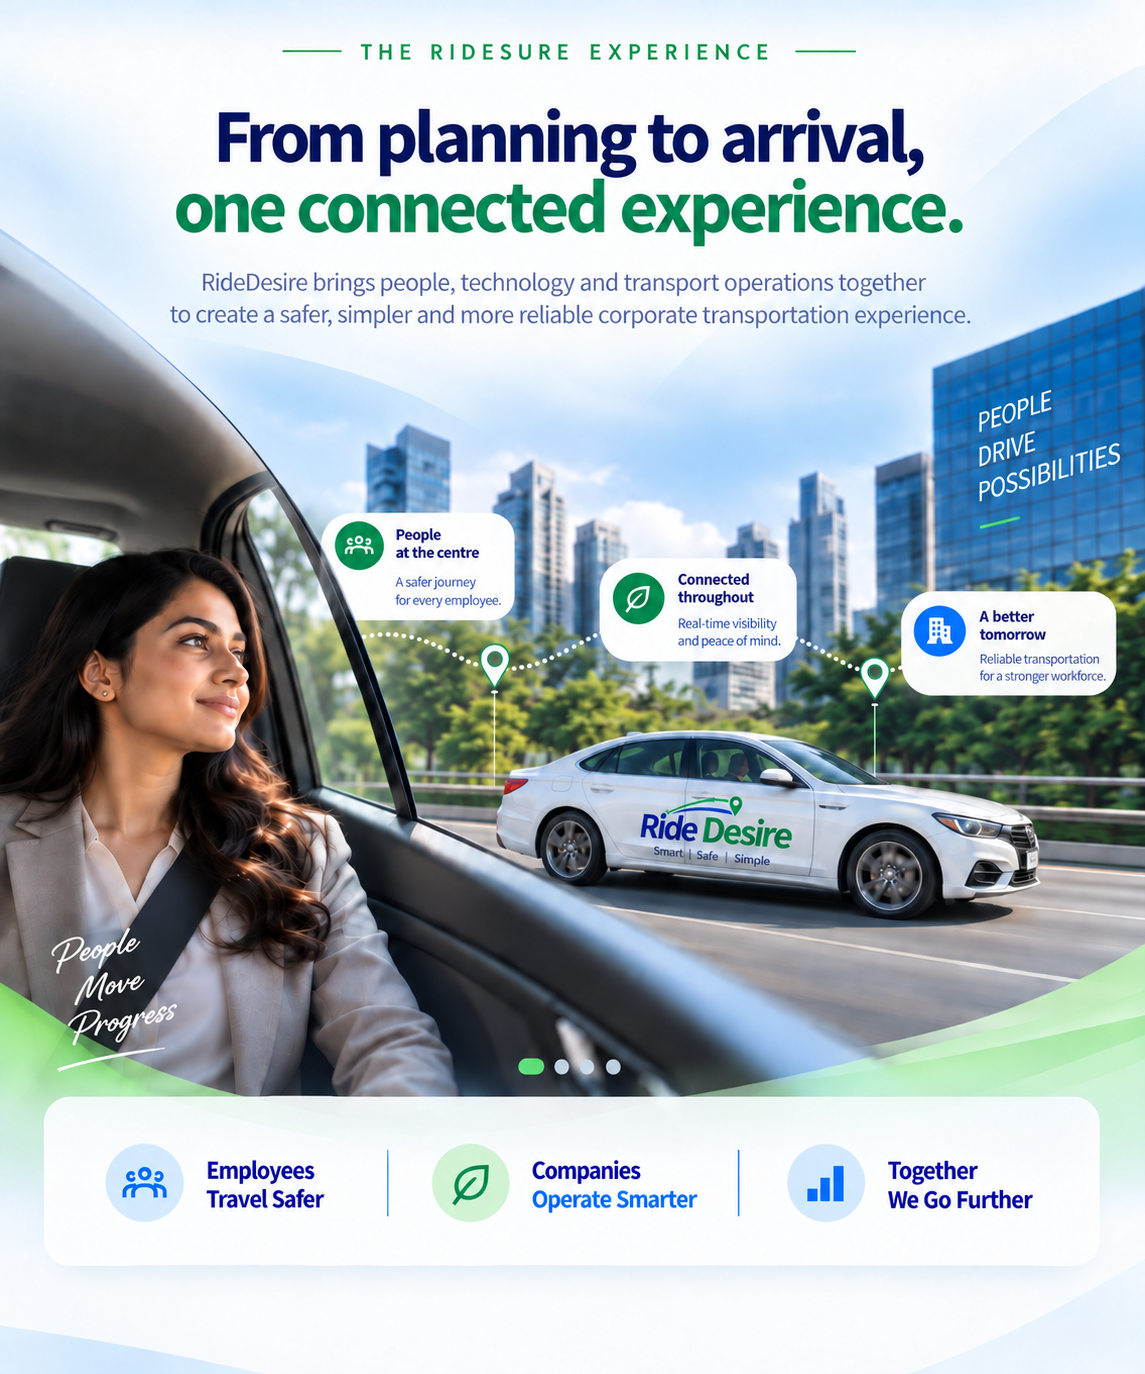
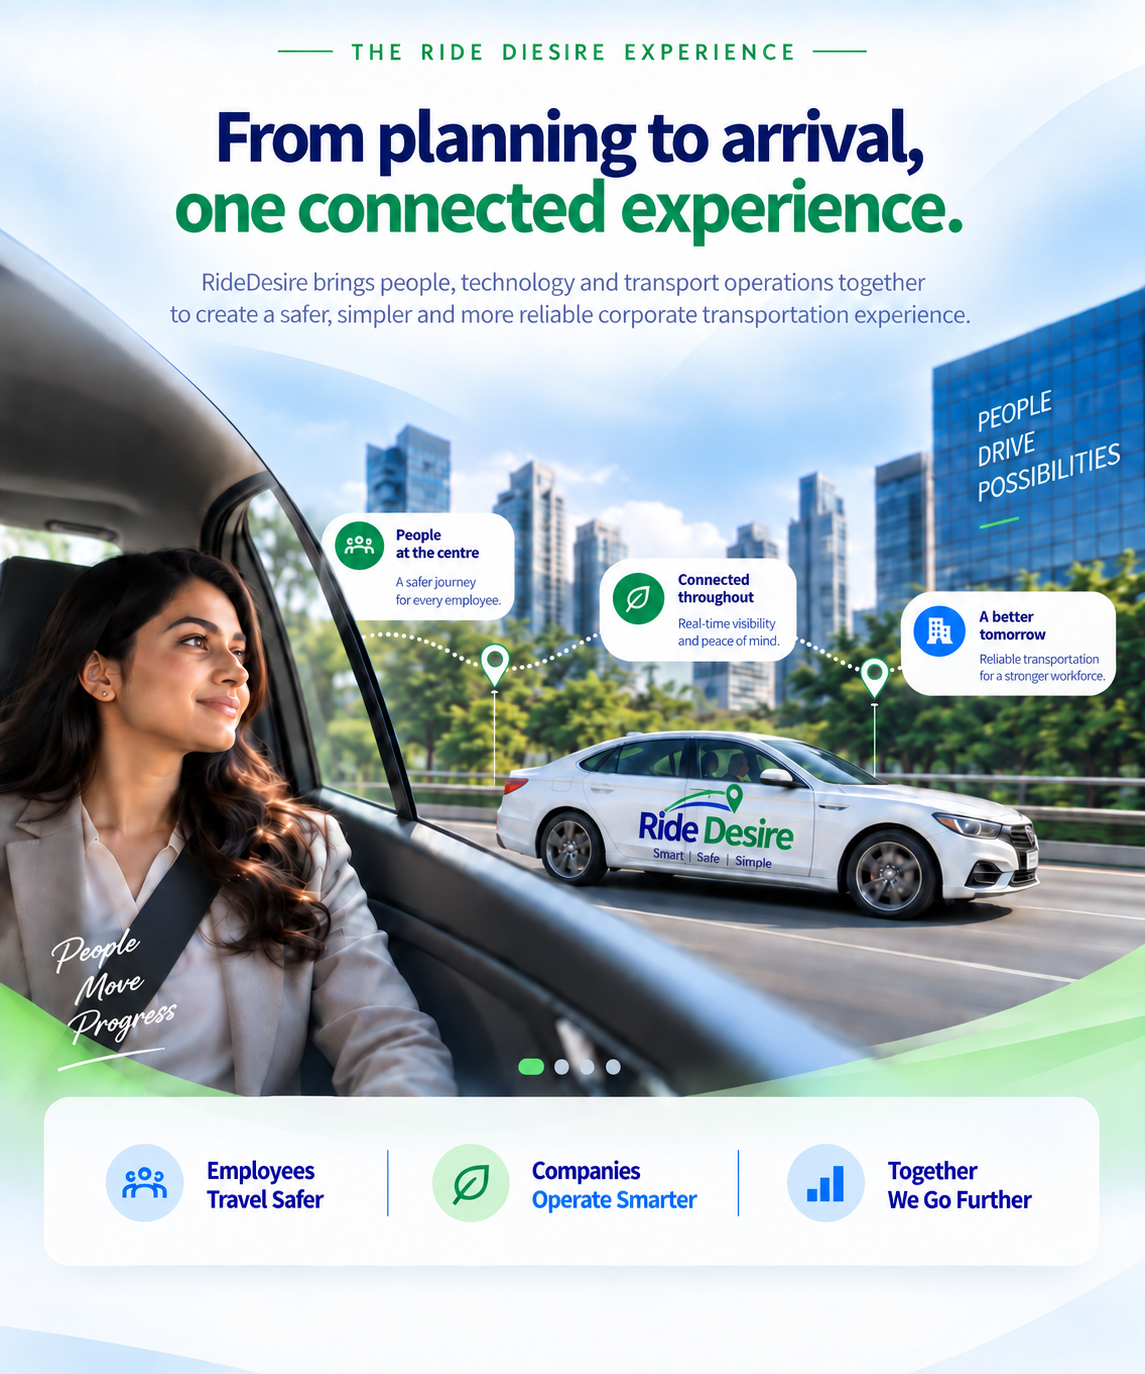
Update Ride Desire experience section

diff --git a/src/App.jsx b/src/App.jsx
@@ -794,39 +794,11 @@ function App() {
           <div className="experience-decoration experience-decoration-two" />
 
           <div className="experience-container">
-            <div className="experience-header">
-              <div className="experience-label">
-                <span className="experience-label-line" />
-
-                THE RIDE DESIRE EXPERIENCE
-
-                <span className="experience-label-line" />
-              </div>
-
-              <h2>
-                From planning to arrival,
-                <br />
-
-                <span>
-                  one connected experience.
-                </span>
-              </h2>
-
-              <p>
-                Ride Desire brings people,
-                technology and transport
-                operations together to create a
-                safer, simpler and more reliable
-                corporate transportation
-                experience.
-              </p>
-            </div>
-
             <div className="experience-cinema">
               <div className="experience-image-wrap">
                 <img
                   src="/images/ride-desire-experience.png"
-                  alt="Ride Desire corporate transportation journey"
+                  alt="Ride Desire corporate transportation experience showing connected employee journeys"
                   className="experience-image"
                 />
               </div>
